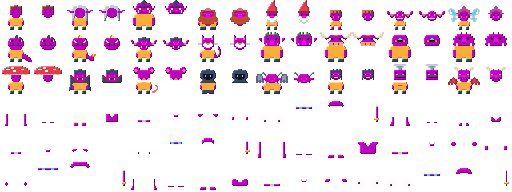
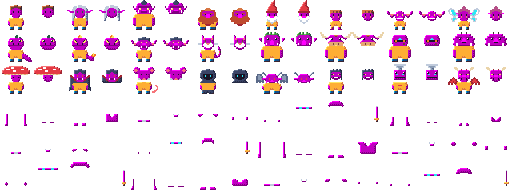
Add dithered half-shadows and eye glints to the 32 pixel art
- Shading gets a dithered row of half-shadow inside the dark edge
- Small, nearly square eye spots of living things (black, red, yellow,
  cyan) get a white glint in the top left

Claude-Session: https://claude.ai/code/session_018TtnMuQoQb33GcSvaajz7z

diff --git a/docs/GODOT_PORT.md b/docs/GODOT_PORT.md
@@ -92,7 +92,9 @@ Ausrüstungsplatz ein Bild gibt.
 gezeichnet (16 × 16, Bosse 24 × 24, Spielfiguren und ihre Ausrüstung 20 × 20).
 Der Generator verdoppelt sie mit Scale2x, das Schrägen glättet statt Blöcke zu
 bilden, verkleinert Größeres spiegelgleich auf 32 × 32 und legt erst dann
-Schattierung und Umriss an. Böden, Wände, Türen, Treppe, Flecken, Schatten,
+Schattierung und Umriss an. Die Schattierung hat an der Schattenseite eine
+gerasterte Reihe Halbschatten; bei Lebewesen bekommen kleine, fast quadratische
+Augenflecken (schwarz, rot, gelb, cyan) einen weißen Glanzpunkt. Böden, Wände, Türen, Treppe, Flecken, Schatten,
 Ringe und Geschosse entstehen direkt in 32 × 32.
 
 **Bewegung:** Fledermäuse, Motten, Tauben und Drohnen flattern, Irrlichter
